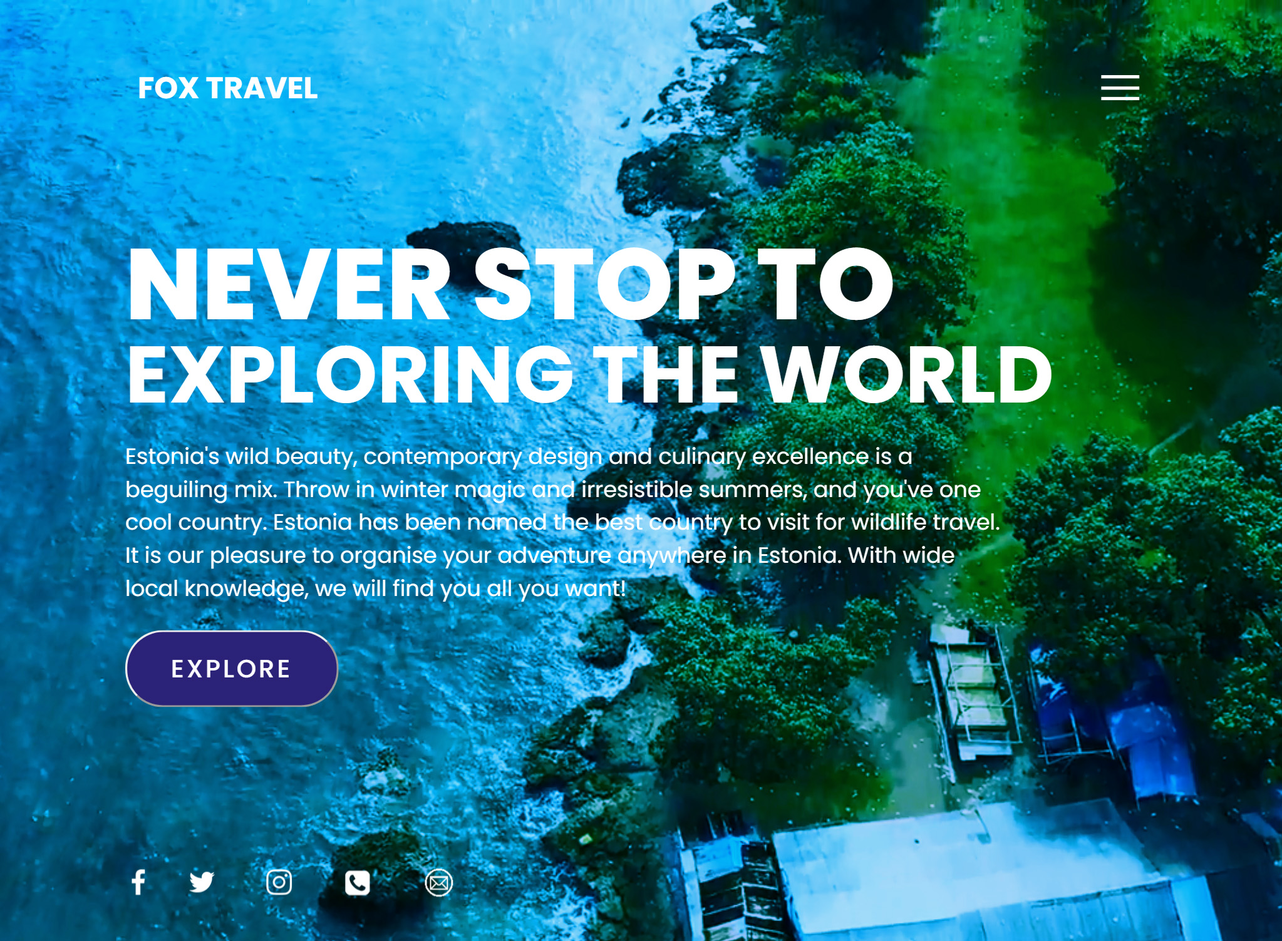
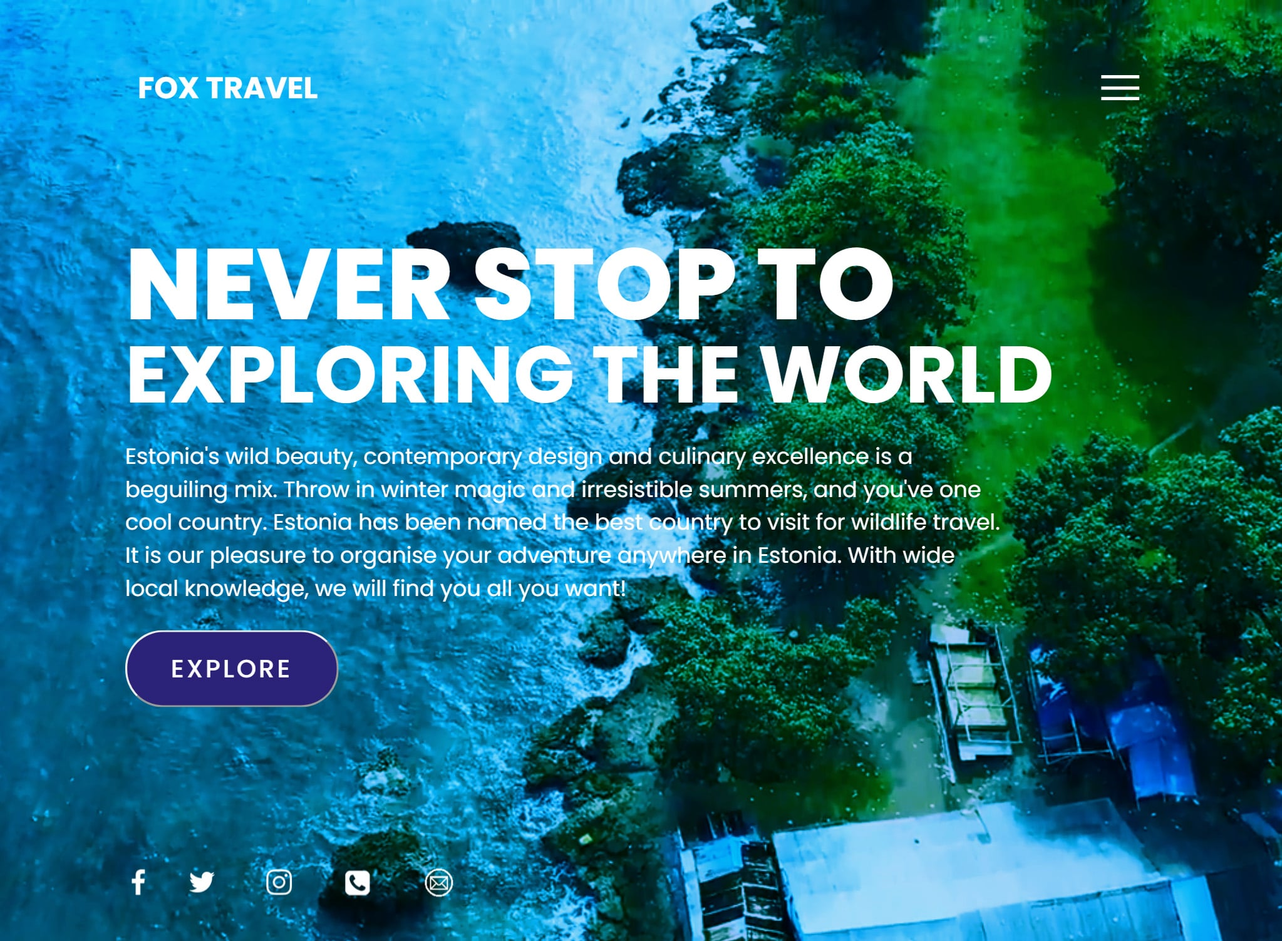
Compressed some files

diff --git a/portfolio/js/new/main.js b/portfolio/js/new/main.js
@@ -26,13 +26,13 @@ $(function(){
 		closeOnContentClick: true,
 		closeBtnInside: false,
 		fixedContentPos: true,
-		mainClass: 'mfp-no-margins mfp-with-zoom', // class to remove default margin from left and right side
+		mainClass: 'mfp-no-margins mfp-with-zoom',/* class to remove default margin from left and right side*/
 		image: {
 			verticalFit: true
 		},
 		zoom: {
 			enabled: true,
-			duration: 300 // don't foget to change the duration also in CSS
+			duration: 300/* don't foget to change the duration also in CSS*/
 		}
 	});
 	/* MAGNIFIC POPUP ENDS */
@@ -82,7 +82,5 @@ $(function(){
             }), 1200;
         }
     });
-	
-	
-	
+
 });
